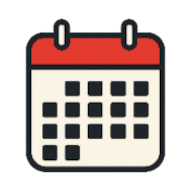
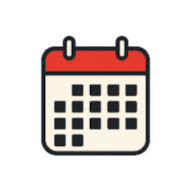
Поправил логотипы

diff --git a/web/index.html b/web/index.html
@@ -340,7 +340,7 @@
 <header role="banner">
   <div class="header-inner">
     <div class="logo">
-      <img class="logo-onevents" src="icons/web-app-manifest-192x192.png">
+      <img class="logo-onevents" src="icons/logo.png">
       OnEvents
     </div>
     <div id="headerControls" style="display: flex; align-items: center; gap: 1rem;">